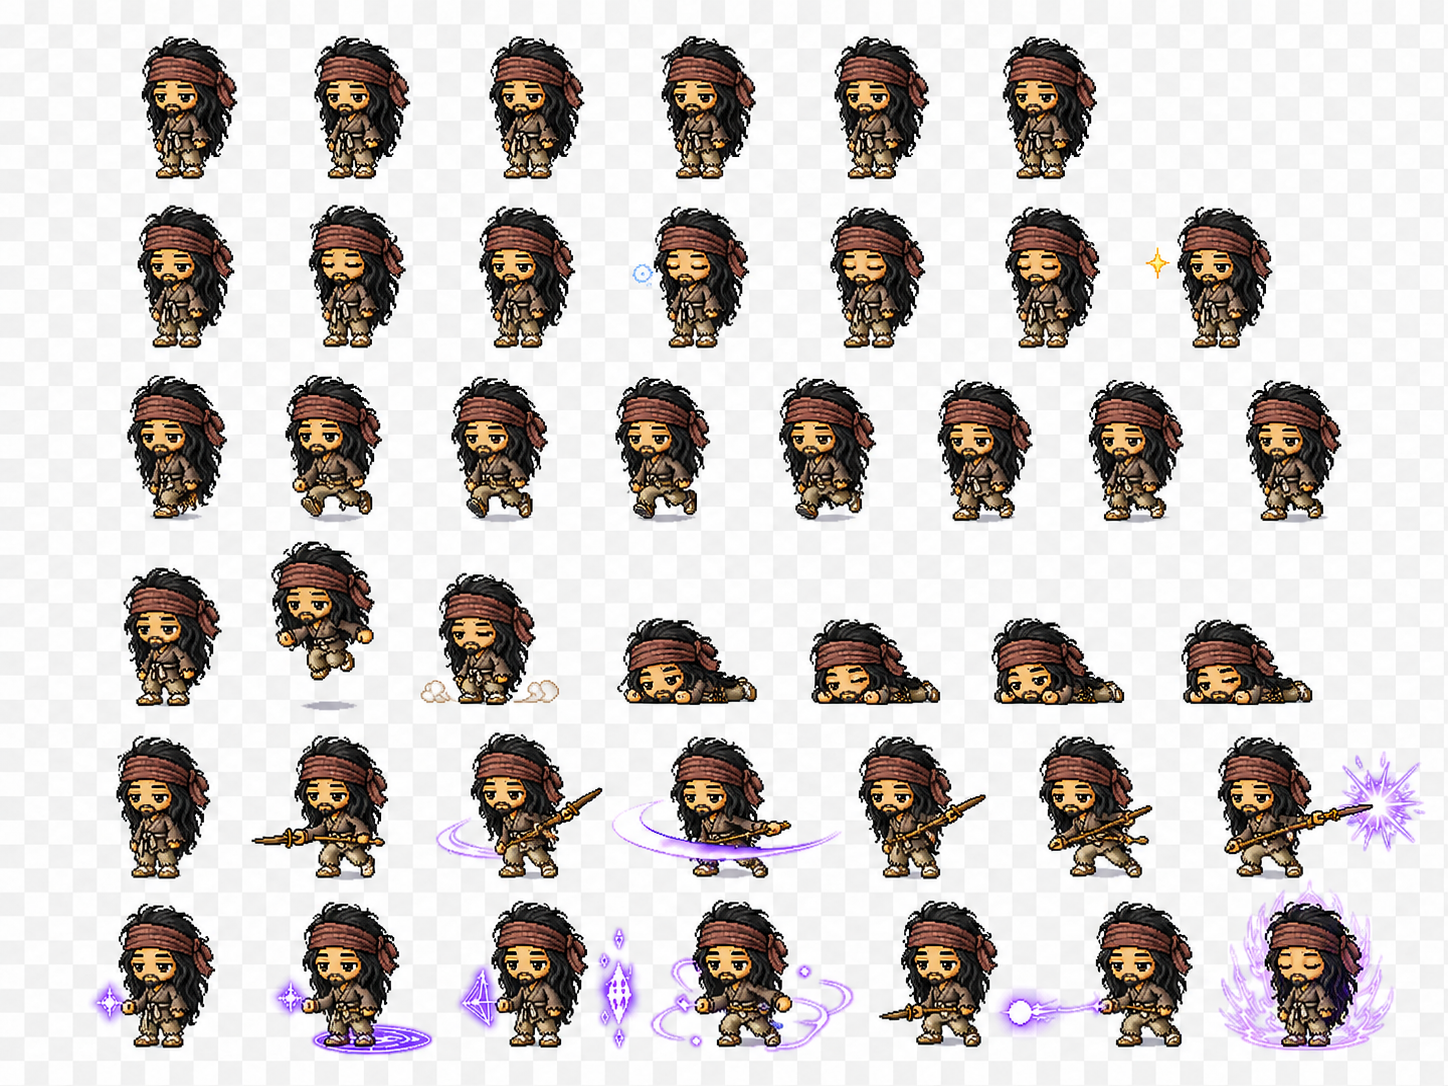
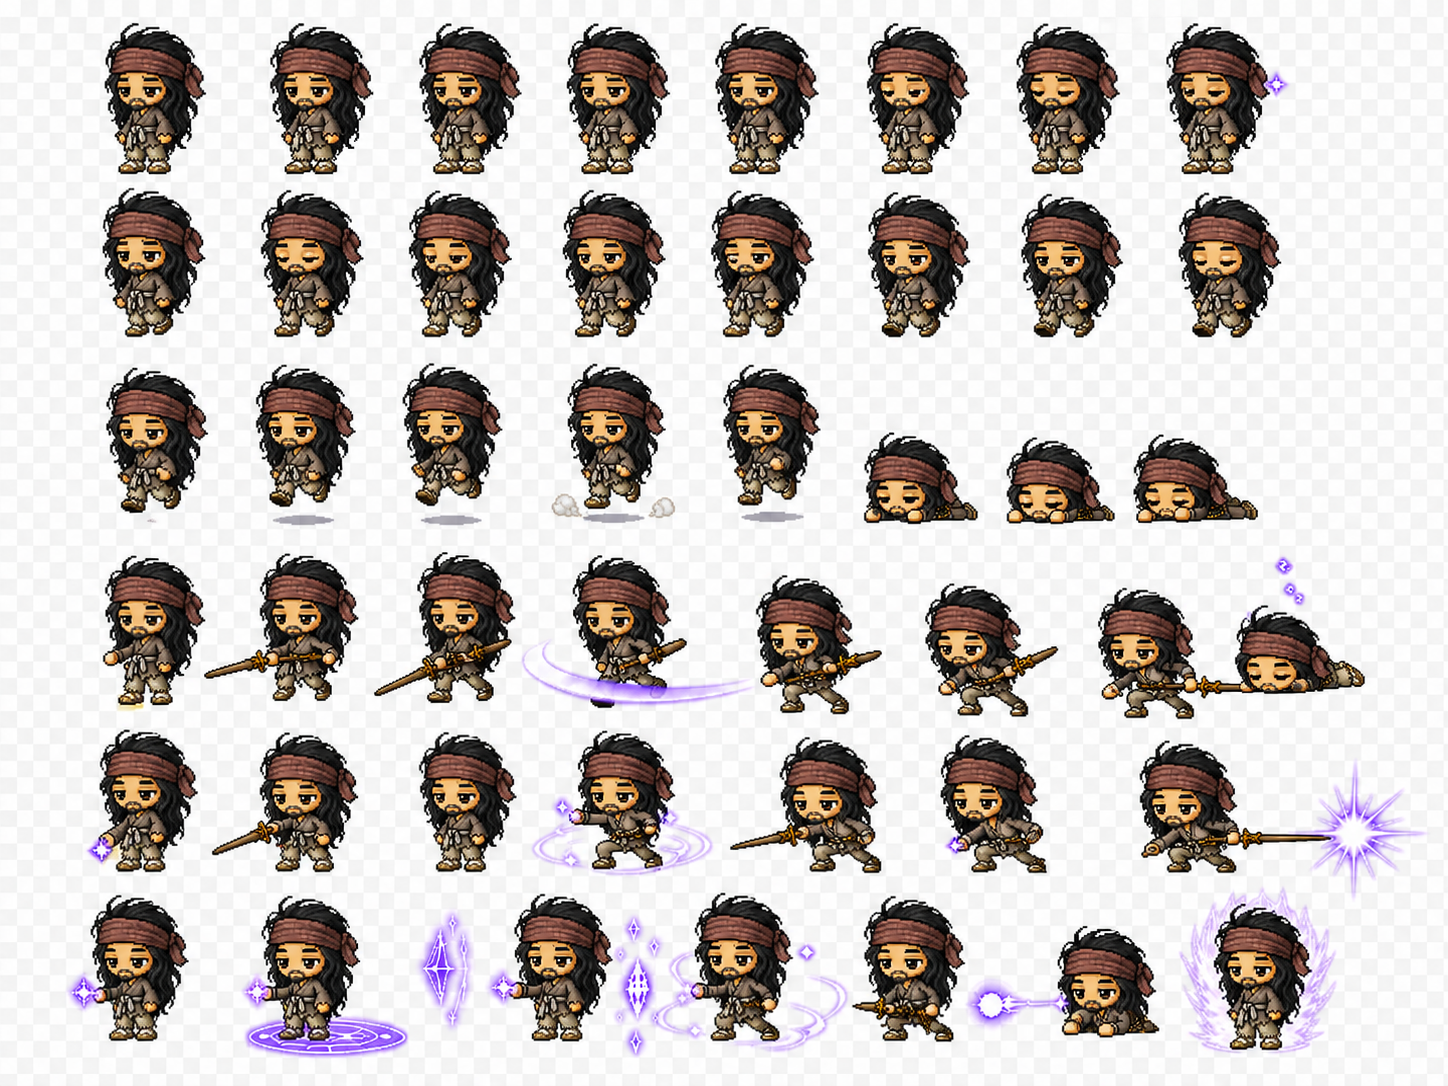
Fix player sprite frame slicing

diff --git a/src/main.ts b/src/main.ts
@@ -240,18 +240,32 @@ const STORY_DIALOGUE_DEFINITIONS_BY_PLATFORM_INDEX = new Map(
 const PLAYER_ADMIN_TEXTURE_KEY = getPlayerTextureKey('admin');
 const PLAYER_NORMAL_TEXTURE_KEY = getPlayerTextureKey('normal');
 const PLAYER_ROLES: PlayerRole[] = ['admin', 'normal'];
-const PLAYER_FRAMES: PlayerFrameDefinition[] = [
-  { name: 'idle-0', x: 144, y: 207, width: 131, height: 172 },
-  { name: 'walk-0', x: 123, y: 387, width: 129, height: 172 },
-  { name: 'walk-1', x: 278, y: 387, width: 130, height: 173 },
-  { name: 'walk-2', x: 444, y: 387, width: 129, height: 172 },
-  { name: 'jump-0', x: 272, y: 561, width: 131, height: 168 },
-  { name: 'jump-1', x: 272, y: 561, width: 131, height: 168 },
-  { name: 'crouch-0', x: 621, y: 627, width: 163, height: 120 },
-  { name: 'crouch-1', x: 803, y: 631, width: 163, height: 116 },
-  { name: 'crouch-2', x: 981, y: 627, width: 163, height: 120 },
-  { name: 'crouch-3', x: 1162, y: 631, width: 163, height: 116 },
-];
+const PLAYER_FRAME_SETS: Record<PlayerRole, PlayerFrameDefinition[]> = {
+  admin: [
+    { name: 'idle-0', x: 88, y: 20, width: 132, height: 172 },
+    { name: 'walk-0', x: 84, y: 190, width: 132, height: 176 },
+    { name: 'walk-1', x: 240, y: 190, width: 132, height: 176 },
+    { name: 'walk-2', x: 396, y: 190, width: 132, height: 176 },
+    { name: 'jump-0', x: 236, y: 370, width: 140, height: 184 },
+    { name: 'jump-1', x: 236, y: 370, width: 140, height: 184 },
+    { name: 'crouch-0', x: 704, y: 420, width: 150, height: 140 },
+    { name: 'crouch-1', x: 864, y: 428, width: 170, height: 132 },
+    { name: 'crouch-2', x: 1036, y: 436, width: 160, height: 124 },
+    { name: 'crouch-3', x: 1200, y: 448, width: 160, height: 116 },
+  ],
+  normal: [
+    { name: 'idle-0', x: 88, y: 10, width: 140, height: 178 },
+    { name: 'walk-0', x: 86, y: 176, width: 140, height: 176 },
+    { name: 'walk-1', x: 244, y: 176, width: 140, height: 176 },
+    { name: 'walk-2', x: 392, y: 176, width: 140, height: 176 },
+    { name: 'jump-0', x: 236, y: 344, width: 150, height: 186 },
+    { name: 'jump-1', x: 236, y: 344, width: 150, height: 186 },
+    { name: 'crouch-0', x: 852, y: 414, width: 150, height: 122 },
+    { name: 'crouch-1', x: 990, y: 420, width: 135, height: 118 },
+    { name: 'crouch-2', x: 1120, y: 416, width: 160, height: 122 },
+    { name: 'crouch-3', x: 1120, y: 416, width: 160, height: 122 },
+  ],
+};
 
 class MainScene extends Phaser.Scene {
   private backgroundLayer!: Phaser.GameObjects.Image;
@@ -291,7 +305,7 @@ class MainScene extends Phaser.Scene {
     this.load.image('ground', '/assets/ground.png');
     this.load.image('stool', '/assets/stool1.png');
     this.load.image(PLAYER_ADMIN_TEXTURE_KEY, '/assets/player-admin-transparent.png');
-    this.load.image(PLAYER_NORMAL_TEXTURE_KEY, '/assets/player-normal2.png');
+    this.load.image(PLAYER_NORMAL_TEXTURE_KEY, '/assets/player-normal2-transparent.png');
     this.createRectTexture('player-body', 46, 58, 0x2f80ed);
     this.createRectTexture('ground-collider', GROUND_VISUAL_WIDTH, GROUND_COLLIDER_HEIGHT, 0x00ff00);
     this.createRectTexture('platform-small-collider', PLATFORM_COLLIDER_WIDTH, PLATFORM_COLLIDER_HEIGHT, 0x00ff00);
@@ -316,7 +330,7 @@ class MainScene extends Phaser.Scene {
     this.createGround(this.platforms);
 
     PLAYER_ROLES.forEach((role) => {
-      this.registerPlayerFrames(getPlayerTextureKey(role));
+      this.registerPlayerFrames(getPlayerTextureKey(role), role);
     });
     this.createAnimations();
 
@@ -1331,10 +1345,10 @@ class MainScene extends Phaser.Scene {
     }
   }
 
-  private registerPlayerFrames(textureKey: string) {
+  private registerPlayerFrames(textureKey: string, role: PlayerRole) {
     const texture = this.textures.get(textureKey);
 
-    PLAYER_FRAMES.forEach(({ name, x, y, width, height }) => {
+    PLAYER_FRAME_SETS[role].forEach(({ name, x, y, width, height }) => {
       if (!texture.has(name)) {
         texture.add(name, 0, x, y, width, height);
       }